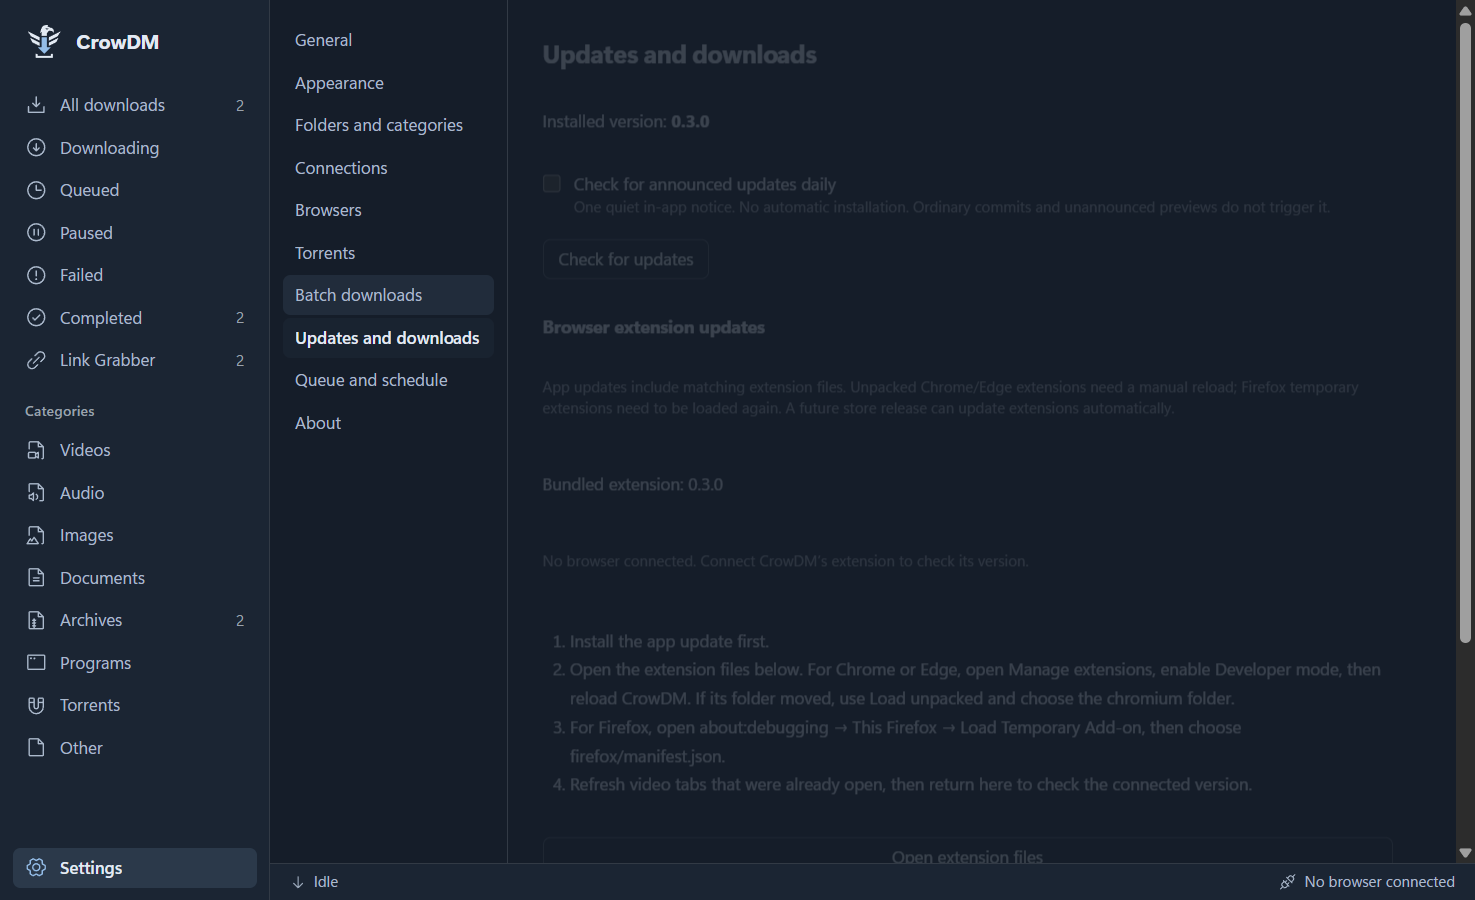
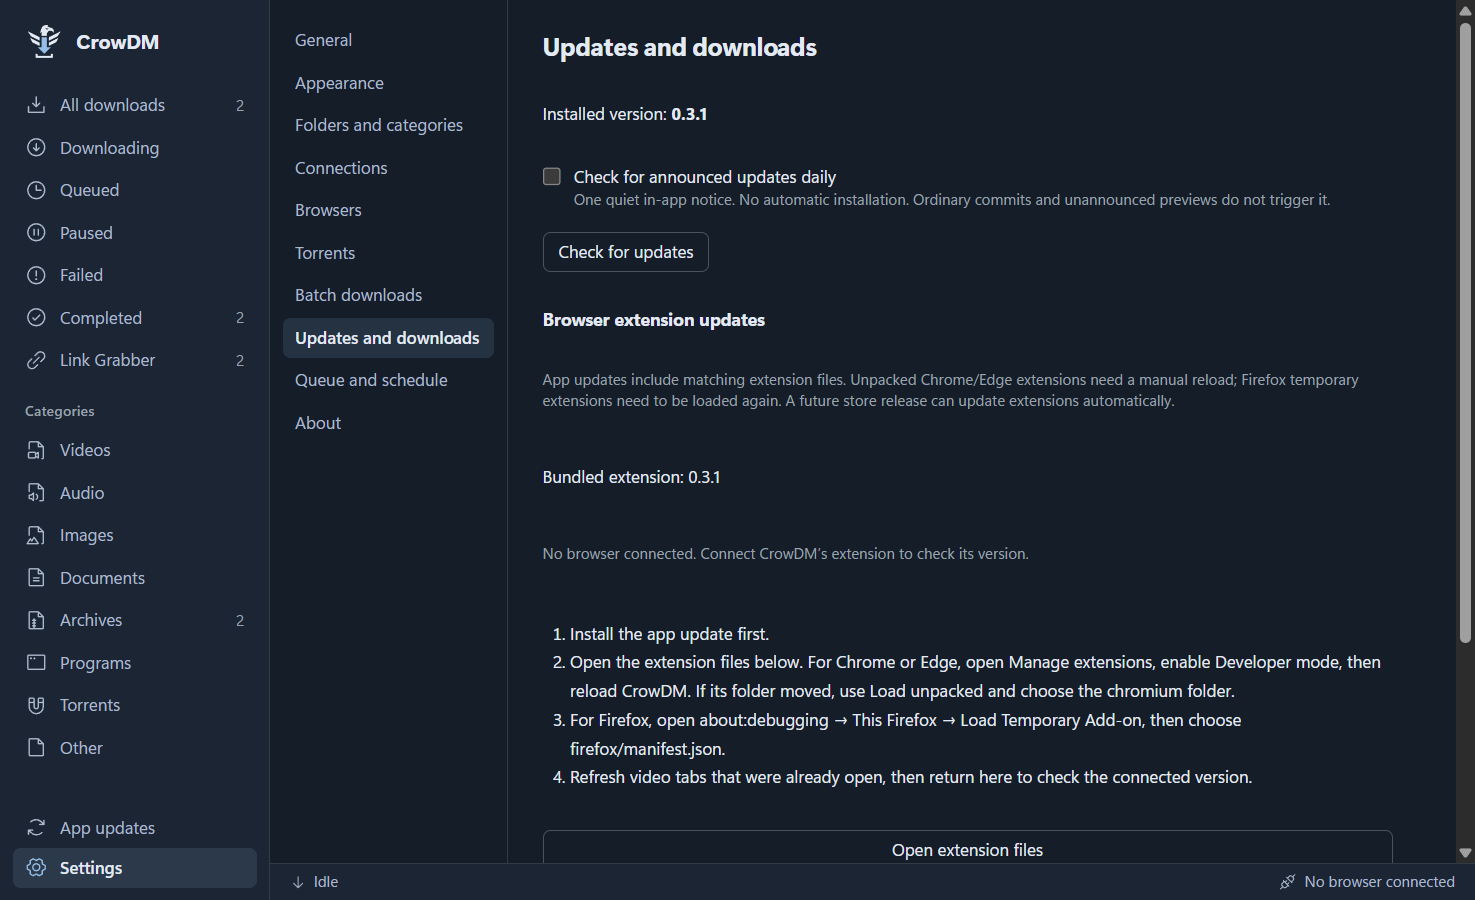
Fix host link checks and expose app updates; refresh preview gallery

diff --git a/apps/desktop/src/components/LinkGrabber.tsx b/apps/desktop/src/components/LinkGrabber.tsx
@@ -31,11 +31,11 @@ export function LinkGrabber() {
   return <div className="grabber">
     <header className="grabber-heading"><div><h2>Link Grabber</h2><p className="hint">Review links together, then download each package into one folder.</p></div><button className="btn" onClick={()=>void run(()=>api.setQueueRunning(!queueRunning))}>{queueRunning?"Hold queue":"Start queue"}</button><div className="mode-picker"><button className={tab==="inbox"?"chosen":""} aria-pressed={tab==="inbox"} onClick={()=>setTab("inbox")}>Collected links ({inbox.links.length})</button><button className={tab==="packages"?"chosen":""} aria-pressed={tab==="packages"} onClick={()=>setTab("packages")}>Packages ({packages.length})</button></div></header>
     {tab === "inbox" ? <>
-      <div className="grabber-inputs"><div className="field"><label htmlFor="link-text">Links or copied link text</label><textarea id="link-text" className="input" rows={4} value={text} onChange={e=>setText(e.target.value)} placeholder="Paste direct links, magnets, or a list of file-host links…" maxLength={2*1024*1024}/><div className="buttons"><button className="btn primary" disabled={busy||inbox.checking||!text.trim()} onClick={()=>void run(async()=>{await api.batchAnalyze(text);setText("");setSelected(null);})}>Analyze links</button><button className="btn" disabled={busy||inbox.checking} onClick={()=>void run(async()=>{const t=await navigator.clipboard.readText();await api.batchAnalyze(t);setSelected(null);})}>Paste from clipboard</button>{inbox.checking&&<button className="btn" onClick={()=>void run(api.batchStop)}>Stop checking</button>}</div></div>
+      <div className="grabber-inputs"><div className="field"><label htmlFor="link-text">Links or copied link text</label><textarea id="link-text" className="input" rows={4} value={text} onChange={e=>setText(e.target.value)} placeholder="Paste direct links, magnets, or a list of file-host links…" maxLength={2*1024*1024}/><div className="buttons"><button className="btn primary" disabled={busy||inbox.checking||!text.trim()} onClick={()=>void run(async()=>{await api.batchAnalyze(text);setText("");setSelected(null);})}>Analyze links</button><button className="btn" disabled={busy||inbox.checking} onClick={()=>void run(async()=>{const t=await navigator.clipboard.readText();await api.batchAnalyze(t);setSelected(null);})}>Paste from clipboard</button>{inbox.links.some(l=>l.status==="error")&&<button className="btn" disabled={busy||inbox.checking} onClick={()=>void run(async()=>{await api.batchAnalyze("");setSelected(null);})}>Retry unavailable</button>}{inbox.checking&&<button className="btn" onClick={()=>void run(api.batchStop)}>Stop checking</button>}</div></div>
       <div className="field"><label htmlFor="link-page">Or collect links from a page</label><div className="input-row"><input id="link-page" className="input" placeholder="https://…" value={page} onChange={e=>setPage(e.target.value)}/><button className="btn" disabled={busy||inbox.checking||!page.trim()} onClick={()=>void run(()=>api.batchCollectPage(page.trim()))}>Collect links from page</button></div><span className="hint">Direct file links and supported host pages. Login, captcha and protected host pages may need your browser. Archives stay as parts; extraction is not automatic.</span></div></div>
       <div className="grabber-controls"><label className="check"><input type="checkbox" checked={group} onChange={e=>setGroup(e.target.checked)}/><span>One folder per package</span></label><div className="input-row"><label htmlFor="batch-root">Save to</label><input id="batch-root" className="input" value={root} onChange={e=>setRoot(e.target.value)}/><button className="btn" onClick={()=>void openDialog({directory:true,defaultPath:root}).then(p=>{if(typeof p==="string")setRoot(p);})}>Browse</button></div></div>
       <div className="grabber-actions"><span role="status">{inbox.checking ? "Checking links…" : `${ready.length} ready selected · ${inbox.links.filter(l=>l.status==="error").length} need attention`}</span><button className="btn ghost" onClick={()=>setSelected(null)}>Select ready</button><button className="btn ghost" onClick={()=>setSelected(new Set())}>Select none</button><button className="btn ghost" disabled={busy||inbox.checking||!inbox.links.length} onClick={()=>void run(()=>api.batchRemove(inbox.links.filter(l=>l.status==="ready"&&(selected===null||selected.has(l.id))).map(l=>l.id)))}>Remove selected</button><button className="btn ghost" disabled={busy||inbox.checking||!inbox.links.some(l=>l.status==="error"||l.status==="duplicate")} onClick={()=>void run(()=>api.batchRemove(inbox.links.filter(l=>l.status==="error"||l.status==="duplicate").map(l=>l.id)))}>Clear unavailable</button><button className="btn primary" disabled={busy||inbox.checking||!ready.length} onClick={()=>void add()}>Add selected to queue</button></div>
-      <div className="package-list">{groups.map(([name,links])=><details className="package-card" key={name} open><summary><strong>{names[name]??name}</strong><span>{links.length} files · {fmt.bytes(links.reduce((a,l)=>a+(l.probe?.size??0),0))}{links.some(l=>l.probe?.size==null)?" + unknown":""}</span></summary><div className="field package-name"><label>Package folder<input className="input" aria-label={`Package folder for ${name}`} value={names[name]??name} onChange={e=>setNames(v=>({...v,[name]:e.target.value}))}/></label></div>{links.map(l=><label className="grabbed-row" key={l.id}><input type="checkbox" checked={l.status==="ready"&&(selected===null||selected.has(l.id))} disabled={l.status!=="ready"} onChange={e=>setSelected(v=>{const n=new Set(v??inbox.links.filter(l=>l.status==="ready").map(l=>l.id));if(e.target.checked)n.add(l.id);else n.delete(l.id);return n;})}/><span className="grabbed-name" title={l.url}>{l.fileName}<small>{l.message??new URL(l.url).hostname}</small></span><span>{l.probe?.size!=null?fmt.bytes(l.probe.size):"Unknown"}</span><span className={`link-state ${l.status}`}>{l.status}</span></label>)}</details>)}{!groups.length&&<p className="hint">Collected links stay here until you add or remove them. Clipboard monitoring is optional in Settings → Batch downloads.</p>}</div>
+      <div className="package-list">{groups.map(([name,links])=><details className="package-card" key={name} open><summary><strong>{names[name]??name}</strong><span>{links.length} files · {fmt.bytes(links.reduce((a,l)=>a+(l.probe?.size??0),0))}{links.some(l=>l.probe?.size==null)?" + unknown":""}</span></summary><div className="field package-name"><label>Package folder<input className="input" aria-label={`Package folder for ${name}`} value={names[name]??name} onChange={e=>setNames(v=>({...v,[name]:e.target.value}))}/></label></div>{links.map(l=><div className="grabbed-row" key={l.id}><input aria-label={`Select ${l.fileName}`} type="checkbox" checked={l.status==="ready"&&(selected===null||selected.has(l.id))} disabled={l.status!=="ready"} onChange={e=>setSelected(v=>{const n=new Set(v??inbox.links.filter(l=>l.status==="ready").map(l=>l.id));if(e.target.checked)n.add(l.id);else n.delete(l.id);return n;})}/><span className="grabbed-name" title={l.url}>{l.fileName}<small>{l.message??new URL(l.url).hostname}</small>{l.status==="error"&&<button type="button" className="btn ghost" onClick={e=>{e.preventDefault();void run(()=>api.openLinkPage(l.originalUrl||l.url));}}>Open in browser</button>}</span><span>{l.probe?.size!=null?fmt.bytes(l.probe.size):"Unknown"}</span><span className={`link-state ${l.status}`}>{l.status}</span></div>)}</details>)}{!groups.length&&<p className="hint">Collected links stay here until you add or remove them. Clipboard monitoring is optional in Settings → Batch downloads.</p>}</div>
     </> : <div className="package-list">{packages.map(([key,list])=>{const size=list.reduce((a,j)=>a+(j.size??0),0);const done=list.reduce((a,j)=>a+j.downloaded,0);const ids=list.map(j=>j.id);return <details className="package-card" key={key}><summary><strong>{list[0].package}</strong><span>{list.filter(j=>j.state==="completed").length}/{list.length} files · {fmt.bytes(done)} / {list.some(j=>j.size===null)?"Unknown":fmt.bytes(size)} · {fmt.bytes(list.reduce((a,j)=>a+j.speed,0))}/s</span></summary><progress max={size||1} value={done}/><div className="buttons"><button className="btn" disabled={!list.some(j=>j.state==="paused"||j.state==="failed"||j.state==="queued")} onClick={()=>void run(()=>api.setQueued(ids.filter(id=>jobs[id].state!=="completed"),true))}>Resume package</button><button className="btn" disabled={!list.some(j=>j.state==="downloading"||j.state==="queued")} onClick={()=>void run(()=>api.pause(ids))}>Pause package</button><button className="btn" onClick={()=>void run(()=>api.openFolder(list[0].dir))}>Open folder</button></div>{list.map(j=><div className="grabbed-row" key={j.id}><span className="grabbed-name">{j.fileName}</span><span>{fmt.bytes(j.downloaded)}</span><span>{j.state}</span></div>)}</details>})}{!packages.length&&<p className="hint">Packages appear here after adding collected links to the queue.</p>}</div>}
     {message&&<p role="status" className="grabber-message">{message}</p>}
   </div>;

diff --git a/apps/desktop/src/lib/api.ts b/apps/desktop/src/lib/api.ts
@@ -253,6 +253,7 @@ export const api = {
   setQueued: (ids: string[], queued: boolean) => invoke<void>("set_queued", { ids, queued }),
   openFile: (id: string) => invoke<void>("open_job_file", { id }),
   reveal: (id: string) => invoke<void>("reveal_job", { id }),
+  openLinkPage: (url: string) => invoke<void>("open_link_page", {url}),
   openFolder: (path: string) => invoke<void>("open_folder", { path }),
   pauseAll: () => invoke<void>("pause_all"),
   resumeAll: () => invoke<void>("resume_all"),
@@ -267,7 +268,7 @@ export const api = {
   memoryUsage: () => invoke<{ pid: number; name: string; privateBytes: number }[]>("memory_usage"),
 };
 
-export interface GrabbedLink { id: string; url: string; fileName: string; package: string; status: "checking"|"unchecked"|"ready"|"error"|"duplicate"; message: string|null; probe: ProbeInfo|null }
+export interface GrabbedLink { id: string; originalUrl?: string; url: string; fileName: string; package: string; status: "checking"|"unchecked"|"ready"|"error"|"duplicate"; message: string|null; probe: ProbeInfo|null }
 export interface LinkInbox { links: GrabbedLink[]; checking: boolean }
 export interface AnnouncedUpdate { version: string; whatsNew: string[]; installerUrl: string; sha256: string; extensionVersion: string }
 export interface DownloadCounts { total: number; versions: {version: string; downloads: number}[] }

diff --git a/apps/desktop/src/components/SettingsView.tsx b/apps/desktop/src/components/SettingsView.tsx
@@ -2,7 +2,7 @@ import { useEffect, useState } from "react";
 import { open as openDialog } from "@tauri-apps/plugin-dialog";
 import { Plus, X } from "@phosphor-icons/react";
 import { api, errorText, type BrowserStatus, type Settings, type AppInfo } from "../lib/api";
-import { useStore } from "../lib/store";
+import { useStore, type SettingsSection } from "../lib/store";
 import * as fmt from "../lib/format";
 import { Logo } from "./Logo";
 import { Select } from "./Select";
@@ -15,7 +15,7 @@ import type { ColorMode, Palette } from "../lib/api";
 let saves: Promise<unknown> = Promise.resolve();
 let saveRevision = 0;
 
-type Section = "general" | "appearance" | "folders" | "connections" | "browsers" | "torrents" | "batch" | "updates" | "queue" | "about";
+type Section = SettingsSection;
 const SECTIONS: [Section, string][] = [
   ["general", "General"],
   ["appearance", "Appearance"],
@@ -32,7 +32,8 @@ const SECTIONS: [Section, string][] = [
 export function SettingsView() {
   const settings = useStore((s) => s.settings);
   const showToast = useStore((s) => s.showToast);
-  const [section, setSection] = useState<Section>("general");
+  const section = useStore(s => s.settingsSection);
+  const setSection = (settingsSection: Section) => useStore.setState({settingsSection});
 
   if (!settings) return null;
   const save = (patch: Partial<Settings>) => {

diff --git a/apps/desktop/src/lib/store.ts b/apps/desktop/src/lib/store.ts
@@ -19,6 +19,8 @@ export const SORT_OPTIONS: [SortKey, string][] = [
   ["progress", "By progress"],
 ];
 
+export type SettingsSection = "general" | "appearance" | "folders" | "connections" | "browsers" | "torrents" | "batch" | "updates" | "queue" | "about";
+
 interface State {
   jobs: Record<string, JobSnapshot>;
   /** Bumped when membership, names or states change (re-sort/filter). */
@@ -31,6 +33,8 @@ interface State {
   selected: string[];
   lastClicked: string | null;
   view: "downloads" | "settings" | "grabber";
+  settingsSection: SettingsSection;
+  openUpdates(): void;
   grabbedCount: number;
   setGrabbedCount(n: number): void;
   toast: { text: string; tone: "info" | "error" } | null;
@@ -59,6 +63,8 @@ export const useStore = create<State>((set, get) => ({
   selected: [],
   lastClicked: null,
   view: "downloads",
+  settingsSection: "general",
+  openUpdates: () => set({view: "settings", settingsSection: "updates"}),
   grabbedCount: 0,
   setGrabbedCount: (grabbedCount) => set({grabbedCount}),
   toast: null,

diff --git a/apps/desktop/src/components/Sidebar.tsx b/apps/desktop/src/components/Sidebar.tsx
@@ -1,5 +1,6 @@
 import { useMemo, type ReactNode } from "react";
 import {
+  ArrowsClockwise,
   ArrowCircleDown,
   CheckCircle,
   Clock,
@@ -65,6 +66,7 @@ export function Sidebar() {
       <div className="nav-group">Categories</div>
       {categories.map((c) => item({ kind: "category", id: c.id }, c.name, <FileIcon category={c.id} />, counts.cat[c.id] ?? 0))}
       <div className="sidebar-foot">
+        <button className="nav-item" onClick={() => useStore.getState().openUpdates()}><ArrowsClockwise size={18}/><span>App updates</span></button>
         <button className={`nav-item ${view === "settings" ? "active" : ""}`} onClick={() => setView("settings")}>
           <GearSix size={18} />
           <span>Settings</span>

diff --git a/apps/desktop/src/styles.css b/apps/desktop/src/styles.css
@@ -360,6 +360,7 @@ textarea:focus-visible {
   color: var(--text-3);
 }
 .nav-item {
+  flex-shrink: 0;
   display: flex;
   align-items: center;
   gap: 10px;
@@ -758,6 +759,8 @@ textarea:focus-visible {
   min-height: 0;
 }
 .settings-nav {
+  overflow-y: auto;
+  min-height: 0;
   padding: 16px 10px;
   border-right: 1px solid var(--border);
   display: flex;

diff --git a/apps/desktop/src-tauri/src/batch.rs b/apps/desktop/src-tauri/src/batch.rs
@@ -192,15 +192,16 @@ pub fn analyze(state: AppState, text: String) -> Result<(), String> {
     Ok(())
 }
 async fn check(state: &AppState, l: &Link) -> Result<(String, ProbeInfo, Option<String>), String> {
-    let mut url = l.url.clone();
+    let mut url = if l.original_url.is_empty() { l.url.clone() } else { l.original_url.clone() };
     let mut refer = l.referrer.clone();
-    let mut p = state
+    let initial = state
         .engine
         .probe(ProbeRequest { url: url.clone(), file_name_hint: links::hint(&url), referrer: refer.clone(), ..Default::default() })
-        .await
-        .map_err(|_| "This link could not be checked. It may be offline or require a browser login.".to_string())?;
-    if p.looks_like_html {
-        if let Some(id) = p.probe_id {
+        .await;
+    let needs_page = initial.as_ref().map(|p| p.looks_like_html).unwrap_or(true);
+    let mut p = initial.ok();
+    if needs_page {
+        if let Some(id) = p.as_ref().and_then(|p| p.probe_id) {
             state.engine.discard_probe(id);
         }
         let (html, base) = links::fetch_page(&url).await?;
@@ -215,18 +216,26 @@ async fn check(state: &AppState, l: &Link) -> Result<(String, ProbeInfo, Option<
         }
         refer = Some(base);
         url = candidates[0].clone();
-        p = state
-            .engine
-            .probe(ProbeRequest { url: url.clone(), referrer: refer.clone(), file_name_hint: links::hint(&l.url), ..Default::default() })
-            .await
-            .map_err(|_| "The file behind this page could not be checked.".to_string())?;
-        if p.looks_like_html {
-            if let Some(id) = p.probe_id {
+        p = Some(
+            state
+                .engine
+                .probe(ProbeRequest {
+                    url: url.clone(),
+                    referrer: refer.clone(),
+                    file_name_hint: links::hint(&l.url),
+                    ..Default::default()
+                })
+                .await
+                .map_err(|_| "The file behind this page could not be checked. Open it in your browser to verify access.".to_string())?,
+        );
+        if p.as_ref().is_some_and(|p| p.looks_like_html) {
+            if let Some(id) = p.as_ref().and_then(|p| p.probe_id) {
                 state.engine.discard_probe(id);
             }
             return Err("The host still returned a web page. Open this link in your browser.".into());
         }
     }
+    let mut p = p.ok_or("The link could not be checked.")?;
     if let Some(id) = p.probe_id {
         state.engine.discard_probe(id);
     }

diff --git a/crates/engine/src/links.rs b/crates/engine/src/links.rs
@@ -84,7 +84,15 @@ pub async fn fetch_page(url: &str) -> Result<(String, String), String> {
     let client = crate::http::build_client(None).map_err(|_| "Could not create the link checker.")?;
     let mut r = client.get(url).timeout(std::time::Duration::from_secs(20)).send().await.map_err(|_| "The page could not be reached.")?;
     if !r.status().is_success() {
-        return Err(format!("Page returned HTTP {}.", r.status().as_u16()));
+        return Err(match r.status().as_u16() {
+            403 => "Host blocked the link checker (HTTP 403). Open in browser to check verification or access requirements. A verified direct file link may be needed.".into(),
+            404 | 410 => "The host reports that this link is unavailable (HTTP 404/410).".into(),
+            code => format!("Host returned HTTP {code}. Retry later or open in browser."),
+        });
+    }
+    let content_type = r.headers().get(reqwest::header::CONTENT_TYPE).and_then(|h| h.to_str().ok()).unwrap_or("");
+    if !content_type.contains("text/html") && !content_type.contains("application/xhtml") {
+        return Err("The server rejected the file check. Try its direct download in your browser.".into());
     }
     let final_url = r.url().to_string();
     let mut bytes = vec![];

diff --git a/apps/desktop/src-tauri/src/platform.rs b/apps/desktop/src-tauri/src/platform.rs
@@ -231,6 +231,18 @@ mod imp {
         s.encode_wide().chain(Some(0)).collect()
     }
 
+    pub fn open_web_page(url: &str) -> Result<(), String> {
+        use windows_sys::Win32::UI::{Shell::ShellExecuteW, WindowsAndMessaging::SW_SHOWNORMAL};
+        let op = wide(std::ffi::OsStr::new("open"));
+        let uri = wide(std::ffi::OsStr::new(url));
+        let result =
+            unsafe { ShellExecuteW(std::ptr::null_mut(), op.as_ptr(), uri.as_ptr(), std::ptr::null(), std::ptr::null(), SW_SHOWNORMAL) };
+        if result as isize <= 32 {
+            return Err("Windows could not open your browser.".into());
+        }
+        Ok(())
+    }
+
     /// Opens a file with its default program.
     pub fn open_path(path: &Path) -> Result<(), String> {
         use windows_sys::Win32::UI::Shell::ShellExecuteW;

diff --git a/apps/desktop/src-tauri/src/commands.rs b/apps/desktop/src-tauri/src/commands.rs
@@ -229,6 +229,17 @@ pub fn reveal_job(state: State<AppState>, id: JobId) -> R<()> {
 }
 
 #[tauri::command]
+pub fn open_link_page(url: String) -> R<()> {
+    let parsed = tauri::Url::parse(&url).map_err(|_| "Invalid page address.")?;
+    if !matches!(parsed.scheme(), "https" | "http") || !parsed.username().is_empty() || parsed.password().is_some() {
+        return Err("Only HTTP and HTTPS pages can be opened.".into());
+    }
+    #[cfg(windows)]
+    platform::open_web_page(parsed.as_str())?;
+    Ok(())
+}
+
+#[tauri::command]
 pub fn open_folder(path: String) -> R<()> {
     #[cfg(windows)]
     platform::reveal_path(&PathBuf::from(path))?;

diff --git a/apps/desktop/src-tauri/src/main.rs b/apps/desktop/src-tauri/src/main.rs
@@ -221,6 +221,7 @@ fn main() {
             commands::open_job_file,
             commands::reveal_job,
             commands::open_folder,
+            commands::open_link_page,
             commands::pause_all,
             commands::resume_all,
             commands::set_queue_running,

diff --git a/README.md b/README.md
@@ -6,11 +6,13 @@ A Windows download manager with fast segmented transfers, native torrents,
 multipart download packages, browser capture and video downloads. Built for clear control over
 your files: pause, resume, queue, schedule, sort, and find them again.
 
-**[Download the 0.3.0 preview](https://github.com/Syst4n/CrowDM/releases/tag/v0.3.0)**
+**[Download the 0.3.1 preview](https://github.com/Syst4n/CrowDM/releases/tag/v0.3.1)**
 · **[Installation and download guide](docs/INSTALL.md)**
 · **[Report an issue](https://github.com/Syst4n/CrowDM/issues)**
 
-![CrowDM with the Nightwing theme](docs/screenshots/main-nightwing.png)
+![CrowDM multipart download packages](docs/screenshots/packages.png)
+
+![Select links in your browser and send them together](docs/screenshots/selected-links.png)
 
 ## What CrowDM does well
 
@@ -63,7 +65,11 @@ requested download and cleared from completed jobs.
 
 ![Torrent file selection](docs/screenshots/torrent-confirmation.png)
 
-![Multipart package downloads](docs/screenshots/packages.png)
+![Batch download settings](docs/screenshots/batch-settings.png)
+
+![Updates and extension guidance](docs/screenshots/update-settings.png)
+
+![Torrent connection settings](docs/screenshots/torrent-settings.png)
 
 ![Appearance settings](docs/screenshots/appearance-nightwing.png)
 
@@ -73,7 +79,7 @@ Choose the same palette in either mode, or let Windows select light/dark.
 
 ## Install
 
-1. Download the x64 setup EXE from [Releases](https://github.com/Syst4n/CrowDM/releases/tag/v0.3.0)
+1. Download the x64 setup EXE from [Releases](https://github.com/Syst4n/CrowDM/releases/tag/v0.3.1)
    and install it. Windows 10/11 is supported; installation is per user.
 2. Start CrowDM and open **Settings → Browsers → Open extension folder**.
 3. Chrome/Edge: enable Developer mode on the browser's extension page,
@@ -91,7 +97,7 @@ portable use and troubleshooting.
 
 ## Preview status
 
-0.3.0 is an early preview, released for testing and feedback. Installers are
+0.3.1 is an early preview, released for testing and feedback. Installers are
 unsigned, Firefox's extension is temporarily loaded, and installation of
 announced updates remains manual. DRM, active live broadcasts, form POST
 downloads and unsupported sites are excluded or handed back to the browser.
@@ -100,7 +106,7 @@ depend on the source; MP3 conversion does not improve source audio quality.
 
 After upgrading, reload the browser extension and refresh already-open video
 tabs once. Your history, settings, downloaded files and partial downloads
-are retained. See [status](docs/STATUS.md) and [release notes](docs/releases/v0.3.0.md).
+are retained. See [status](docs/STATUS.md) and [release notes](docs/releases/v0.3.1.md).
 
 Torrents support v1/hybrid metadata. Sharing stops on completion; v2-only
 torrents and completed-torrent seeding are not included. Link Grabber supports
